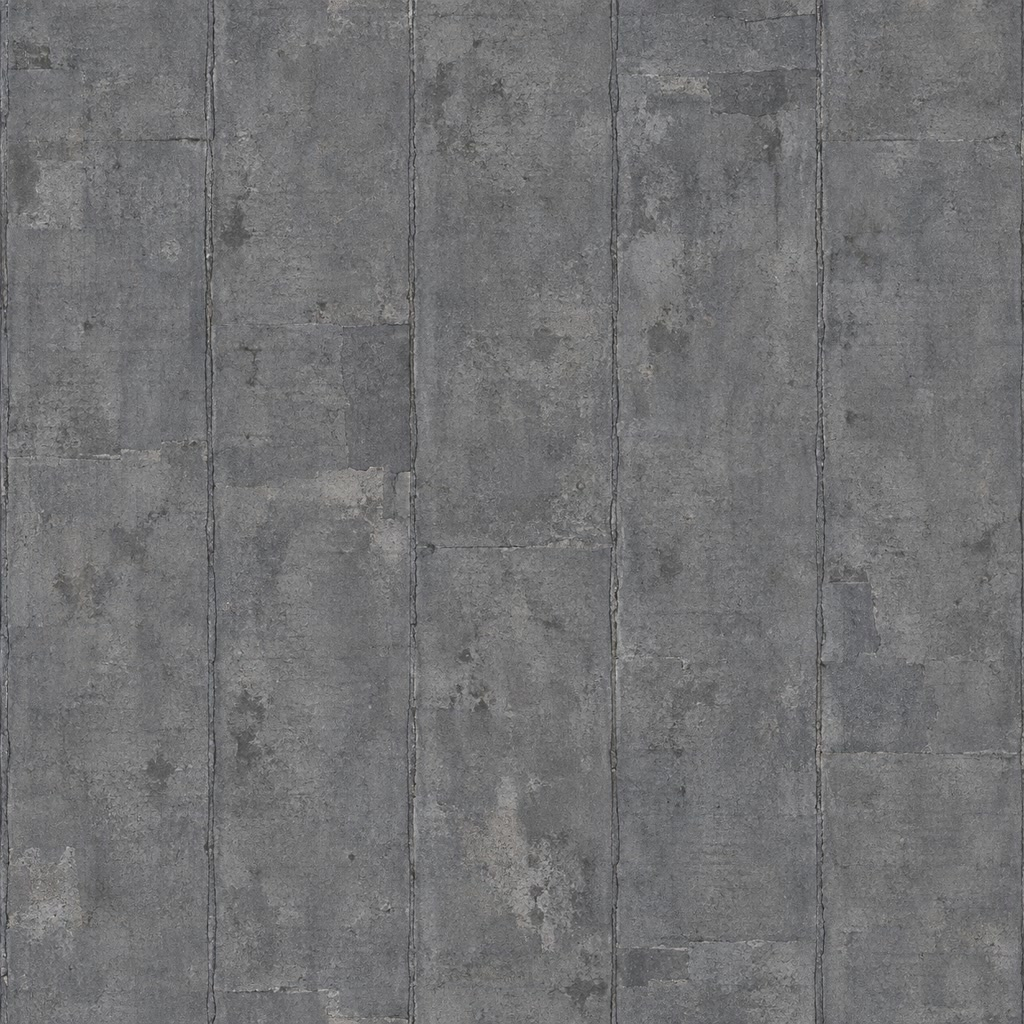
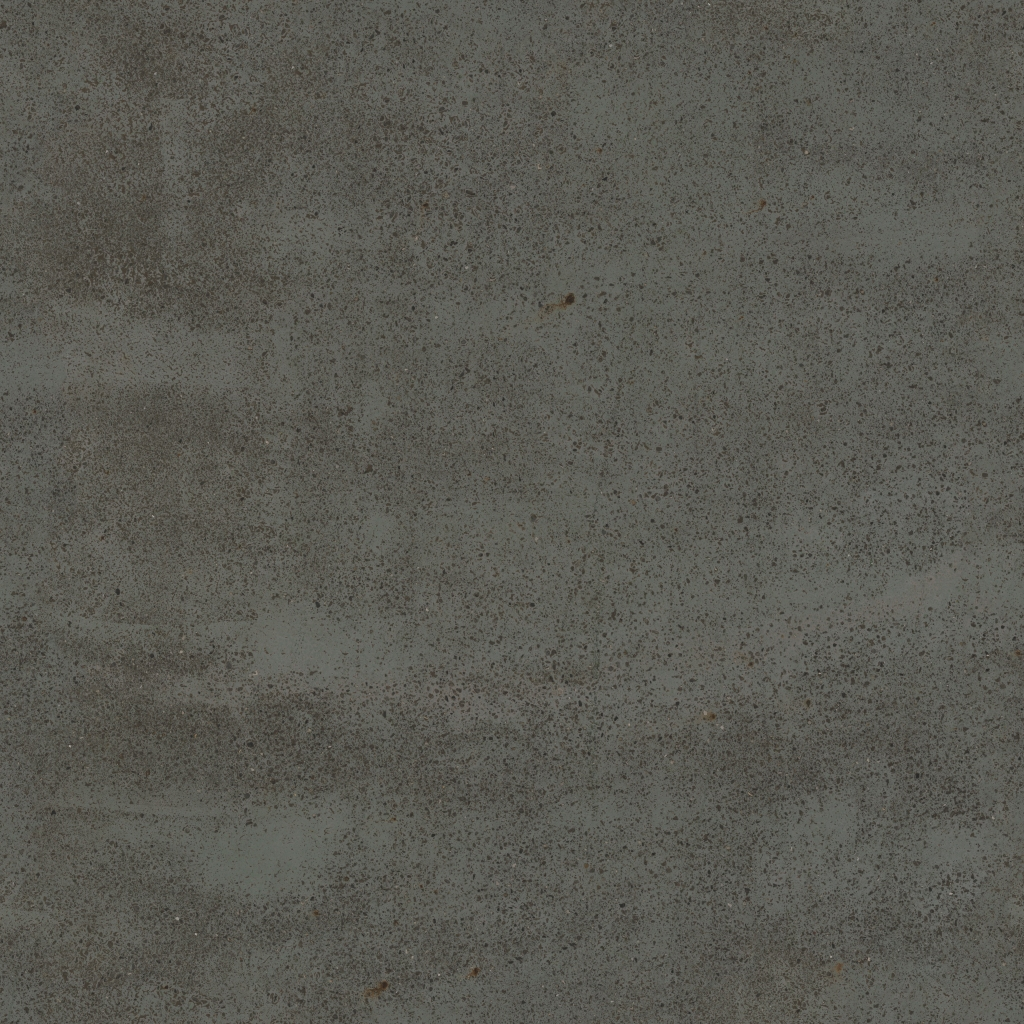
Use realistic flat roof surface texture

diff --git a/apps/simulator/AeroSimLabApp.cpp b/apps/simulator/AeroSimLabApp.cpp
@@ -246,7 +246,8 @@ std::unique_ptr<aerosimlab::graphics::Mesh> CreateBuildingMesh(
         if (!createWalls)
         {
             const std::uint32_t roofStart = static_cast<std::uint32_t>(vertices.size());
-            constexpr double roofTextureTileSizeMeters = 24.0;
+            // Poly Haven 원본 재질의 실제 가로·세로 크기인 2.1m에 맞춰 반복한다.
+            constexpr double roofTextureTileSizeMeters = 2.1;
             for (std::size_t i = 0; i < building.outlineMeters.size(); ++i)
             {
                 const auto& point = building.outlineMeters[i];

diff --git a/assets/maps/tancheon/README.md b/assets/maps/tancheon/README.md
@@ -37,7 +37,7 @@
 | 국토지리정보원 2025년 1:1,000 수치지도 | 건물과 교량의 평면 외곽선 | 장면에 겹치는 도엽의 건물 112개와 교량 도형 3개를 반영했습니다. 건물 수는 중복 정리 뒤 31개 늘었습니다. 위치를 현장에서 측량해 검증한 자료는 아닙니다. |
 | 브이월드 송파구 건물정보와 건축물대장 | 건물 외곽선·이름·높이·층수 | 장면과 겹치는 외곽선에 필지번호와 동 이름을 대조해 확인 가능한 높이·층수를 보탭니다. 외벽 질감이나 지붕 모양은 포함하지 않습니다. |
 | OpenStreetMap 발췌 자료 | 도로와 건물 정보 보완 | 공식 건물 자료에 이름이나 높이가 없는 곳을 보완합니다. 층수만 있으면 층당 3m로 높이를 추정합니다. 높이와 층수가 모두 없으면 화면과 충돌 계산에 6m 임시 높이를 씁니다. 실제 높이가 아니므로 충돌 위치가 실제와 다를 수 있습니다. |
-| 건물 지붕 재질 | 일반 콘크리트 표면 질감으로 구분 | 지면 항공사진과 건물 외곽선의 절대 위치 오차를 측량으로 확인하지 않아, 항공사진을 지붕에 직접 덧씌우지 않습니다. 화면 구분을 위한 임시 질감이며 실제 옥상 사진이나 설비 모형은 아닙니다. |
+| 건물 지붕 재질 | 실외 콘크리트 표면 질감으로 구분 | [Poly Haven의 Gravel Concrete 03](https://polyhaven.com/a/gravel_concrete_03) 확산색 이미지를 사용합니다. 재질 크기 2.1m에 맞춰 반복하며, CC0 자료입니다. 실제 건물 옥상 사진이나 설비 모형은 아닙니다. |
 | 임시 외벽 무늬 | 건물 옆면의 창문·발코니 표현 | 화면에서 건물 면을 알아보기 위한 반복 이미지입니다. 실제 건물 사진이나 원본 3D 외관은 아닙니다. |
 
 정사영상은 원본 전체를 작은 화면 크기에 맞춰 줄인 것이 아닙니다. 원본에서 탄천교 주변 4800×4800픽셀을 잘랐습니다. 원본 해상도로 계산하면 4800픽셀 × 0.25m = 1200m이며, 지면과 영상이 각각 동서·남북 1200m를 차지합니다. 실행용 JPEG로 저장하며 픽셀 수만 3072×3072로 줄였기 때문에 한 픽셀은 약 39cm를 나타냅니다. 사진의 크기와 지면 크기는 맞지만, 원본 TIFF에 지리 좌표가 없어 위치 오차는 별도 측량으로 확인하지 않았습니다.
